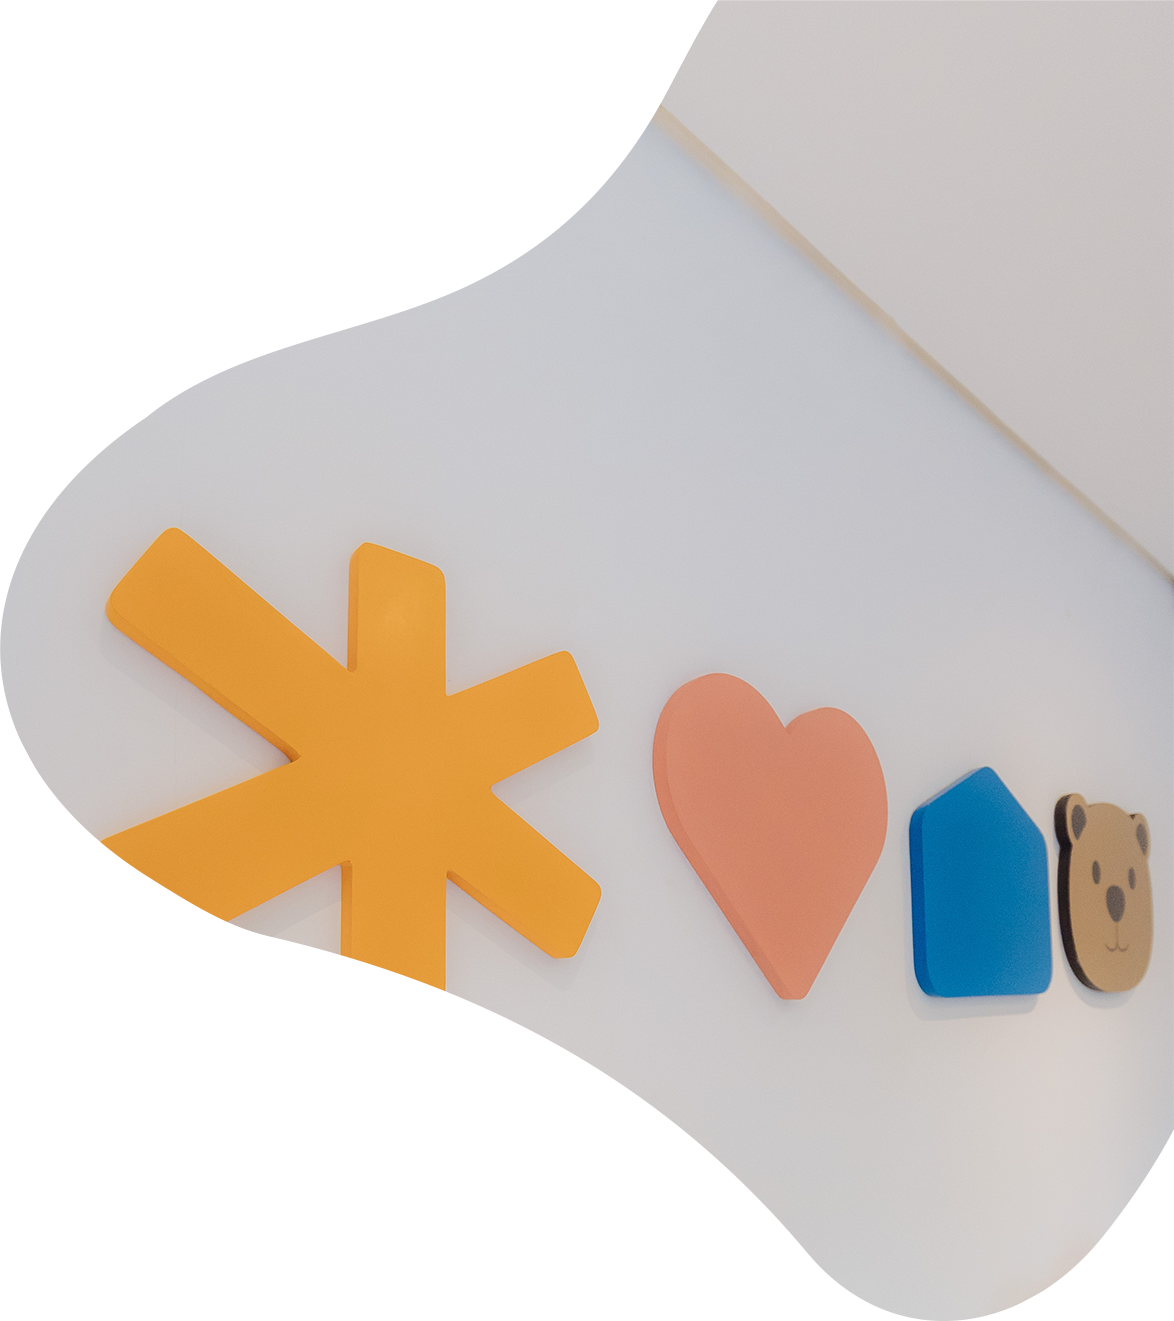
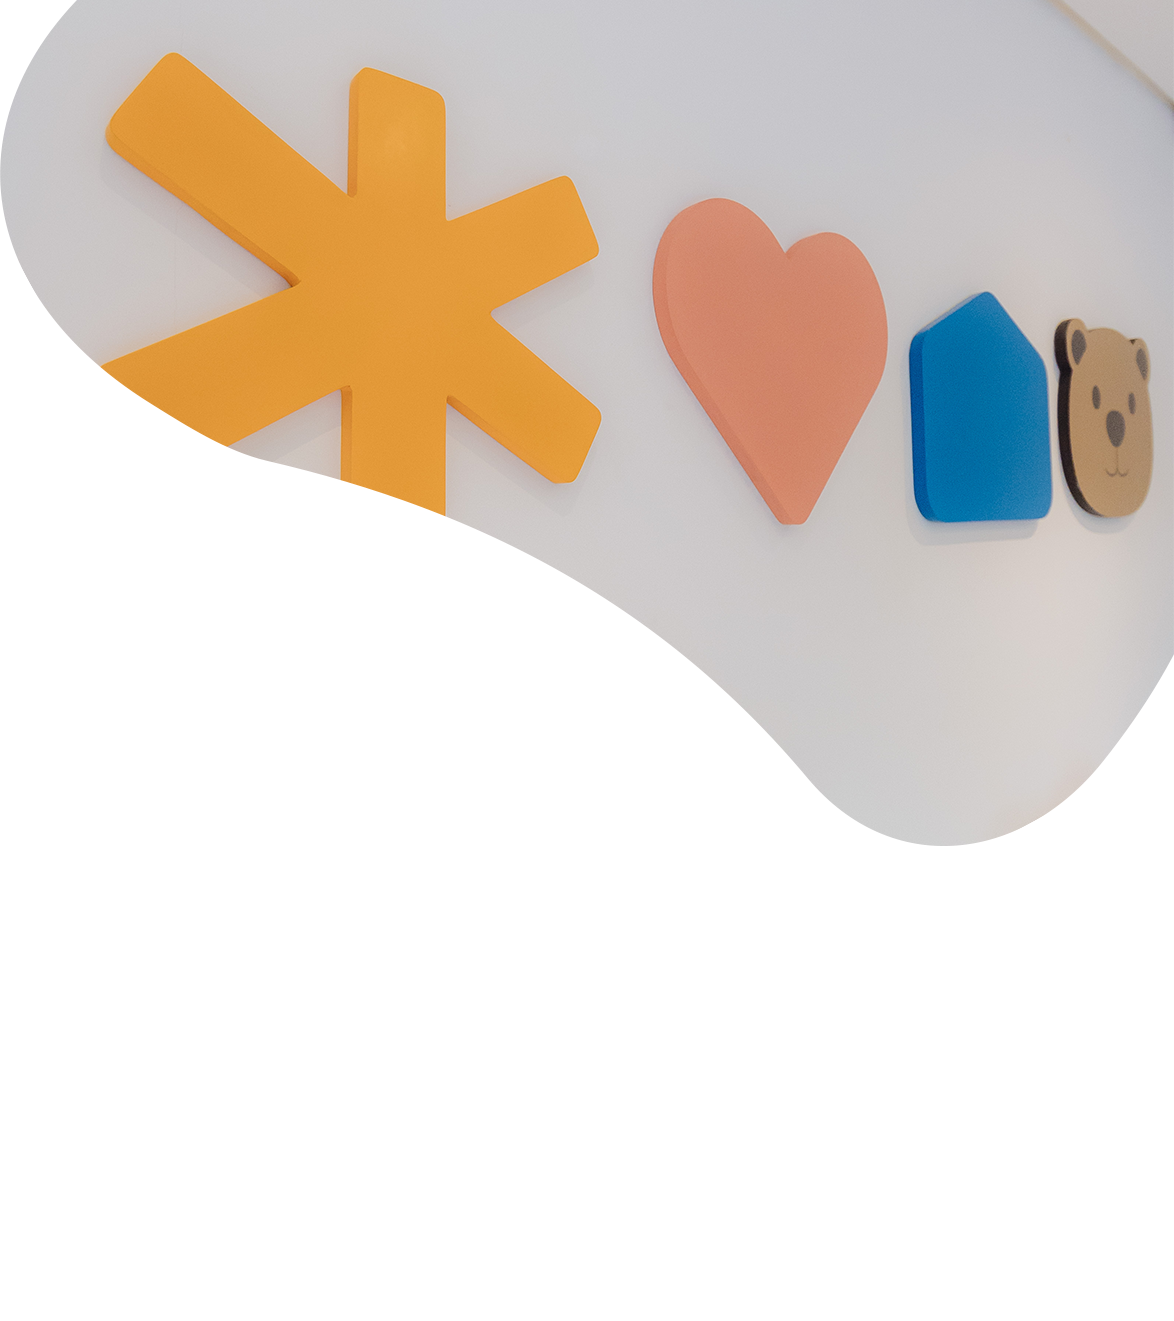
Changes

diff --git a/src/components/brand/social/InstagramTemplates.tsx b/src/components/brand/social/InstagramTemplates.tsx
@@ -89,16 +89,10 @@ export const InstagramTemplates = () => {
 
         {/* Post CTA — Navy */}
         <TemplateCard title="Post CTA — Navy" size="1080 × 1080px">
-          <div className="aspect-square rounded-xl overflow-hidden relative">
-            {/* Top photo area with wave */}
-            <div className="absolute inset-0">
-              <img src={photoIcons} alt="Ícones" className="w-full h-1/2 object-cover object-center" />
-              <div className="absolute top-[45%] left-0 right-0 h-[10%] border-0 py-0 mx-[123px]">
-                <svg viewBox="0 0 400 40" className="w-full h-full" preserveAspectRatio="none">
-                  <path d="M0,20 Q100,0 200,20 Q300,40 400,20 L400,40 L0,40 Z" fill="hsl(213, 50%, 20%)" />
-                </svg>
-              </div>
-              <div className="absolute bottom-0 left-0 right-0 h-[55%] bg-navy" />
+          <div className="aspect-square rounded-xl overflow-hidden relative bg-navy">
+            {/* Photo aligned top-right */}
+            <div className="absolute top-0 right-0 w-[75%] h-[50%]">
+              <img src={photoIcons} alt="Ícones" className="w-full h-full object-cover object-left-top" />
             </div>
             <div className="absolute bottom-6 left-5 right-5">
               <p className="font-display text-white text-sm leading-relaxed mb-1">
